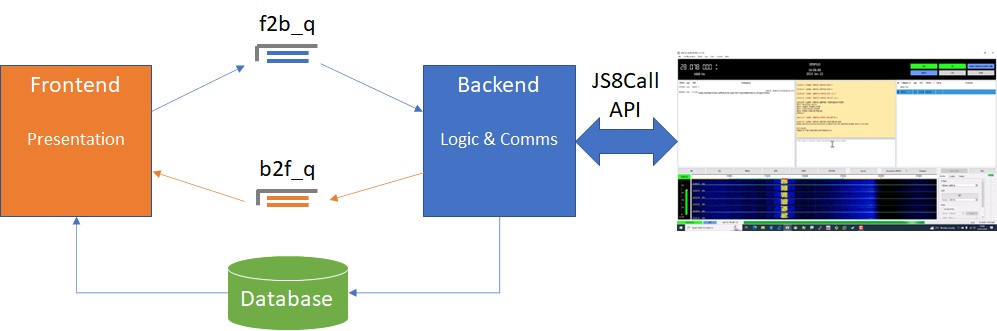
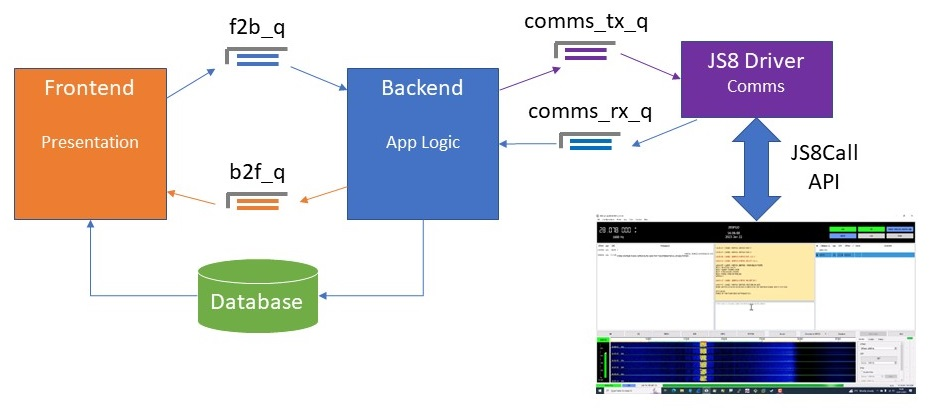
Update to Internals documentation

diff --git a/docs/Internals.html b/docs/Internals.html
@@ -17,18 +17,23 @@
         <p>Python persistent object facilities (like <i>pickle</i>) were considered, but these wouldn't meet
             all the data needs and are more complex to maintain.</p>
         <p><img src="images/components.jpg" width="640" /></p>
-        <p>mbclient comprises two components:</p>
+        <p>mbclient comprises three components:</p>
         <ul>
             <li>Frontend - the GUI and code relating to presentation</li>
-            <li>Backend - code that deals with communication and the main logic of the program</li>
+            <li>Backend - code that provides the main logic of the program</li>
+            <li>JS8 Driver - code that handles the communication with JS8Call</li>
         </ul>
         <p>Each of these components runs in its own Python thread.  Python multithreading does not equate
             to OS multithreading, i.e. it does not use multiple cores.  However, the client will spend a
             lot of time waiting for UI events and network IO (API calls to JS8Call) and so it should meet
             our needs.  Python multiprocessing could be considered at a later stage, if necessary.</p>
         <h2>Messaging</h2>
-        <p>Communication between the frontend and backend is via messages placed on one of two Python FIFO Queues;
-            f2b_q for frontend to backend messaging, and b2f_q for backend to frontend.  The sending code
+        <p>Frontend-to-backend and backend-to-comms messages are objects with getter and setter methods.  The messages
+            are defined in message_q.py. The messages are placed on Python queues (queue.Queue) and these are
+            instantiated in the MbClient class.</p>
+        <h3>GUI Frontend-to-Backend Messages</h3>
+        <p>Communication between the frontend and backend is via message objects placed on one of two Python FIFO
+            Queues; f2b_q for frontend to backend messaging, and b2f_q for backend to frontend.  The sending code
             puts a new messages on the queue, and the receiving code gets the message from the queue.  There are three
             types of message:</p>
         <ul>
@@ -38,10 +43,38 @@
                 change of state, e.g. the operator tunes the radio to another frequency</li>
         </ul>
         <p>Here's an example of a matching request and response:</p>
-        <p><code>
-            {'ts': 1676976154.154798, 'req_ts': 0.0, 'cmd': 'S', 'blog': 'NEWSEN', 'station': 'K7GHI', 'frequency': 0, 'post_id': 0, 'post_date': 0, 'op': '', 'param': '', 'rc': 0}</code></p>
-<p><code>{'ts': 1676976154.1837683, 'req_ts': 1676976154.154798, 'cmd': 'S', 'blog': 'NEWSEN', 'station': 'K7GHI', 'frequency': 0, 'post_id': 0, 'post_date': 0, 'op': '', 'param': '', 'rc': 0}
-        </code></p>
+        <p>
+            <code>
+            ts = 1676976154.154798,
+            req_ts = 0.0,
+            cli_input = '',
+            cmd = 'S',
+            blog = 'NEWSEN',
+            station = 'K7GHI',
+            frequency = 14078000,
+            post_id = 0,
+            post_date = 0,
+            op = '',
+            param = '',
+            rc = 0
+            </code>
+        </p>
+        <p>
+            <code>
+            ts = 1676976154.1837683,
+            req_ts = 1676976154.154798,
+            cli_input = '',
+            cmd = 'S',
+            blog = 'NEWSEN',
+            station = 'K7GHI',
+            frequency = 14078000,
+            post_id = 0,
+            post_date = 0,
+            op = '',
+            param = '',
+            rc = 0
+            </code>
+        </p>
         <p>In this example, the frontend is sending a request to the backend to change the currently selected blog in the blog list.
             Notice how the req_ts value matches the ts value of the request.  A non-zero Response Code (rc) would indicate an error
             has occurred in the backend, e.g. if we try to set the selected blog to a blog that doesn't exist in the list.</p>
@@ -67,7 +100,38 @@
             handled and essentially ignored.  The method that does this work is process_updates() in the MbClient
             class.  The process_updates() method is called via the tkinter callback mechanism; search the code
             for <code>root.after(200, self.process_updates)</code></p>
+        <h3>Backend-to-Comms Messages</h3>
+        <p>Similar objects are used for requests and responses flowing between the backend and the comms driver.
+            Communication between the backend and comms driver is via message objects placed on one of two Python
+            FIFO Queues; comms_tx_q for backend to comms messaging, and comms_rx_q for comms to backend.</p>
         <h2>Database</h2>
+        <h3>Overview</h3>
+        <p>We use a SQLite database at the core of the application.  The database has four tables:</p>
+        <ul>
+            <li>qso - the table used to contain listings, blogs and progress messages</li>
+            <ul><li>used to populate the QSO and New Posts boxes</li></ul>
+            <li>blogs - a table that contains details of blogs identified</li>
+            <ul><li>used to populate the Blog List box</li></ul>
+            <li>settings - holds settings defined using the Settings window (File -> Settings)</li>
+            <li>status - holds context information, such as current selected blog, and a range of timestamps
+                used to indicate data change</li>
+        </ul>
+        <p>As far as the application code is concerned, all database access is made using the DbTable class
+            in db_table.py.</p>
+        <h3>Database Installation</h3>
+        <p>sqlite3 is a standard module of Python 3 and so there is no need to install additional packages.</p>
+        <p>The location of the database is defined in the file db_root.py.  This file needs to be edited to
+            suit each user's preference.  Having the user edit a file like this is not ideal, and we need to
+            add an appropriate startup window.</p>
+        <p>The database is created by the script db_setup.py.  This script also populates the database with
+            sample data and default settings.  The sample data will eventually age out of the QSO and Blog List.
+            If desired, we can supress the sample data by commenting out the code that inserts it into the database,
+            or by using the SQLite command line tool and delete the entries in the qso and blogs tables.</p>
+        <p>
+            <code>sqlite> DELETE FROM blogs;</code><br/>
+            <code>sqlite> DELETE FROM qso;</code>
+        </p>
+
     </div>
 </body>
 </html>
